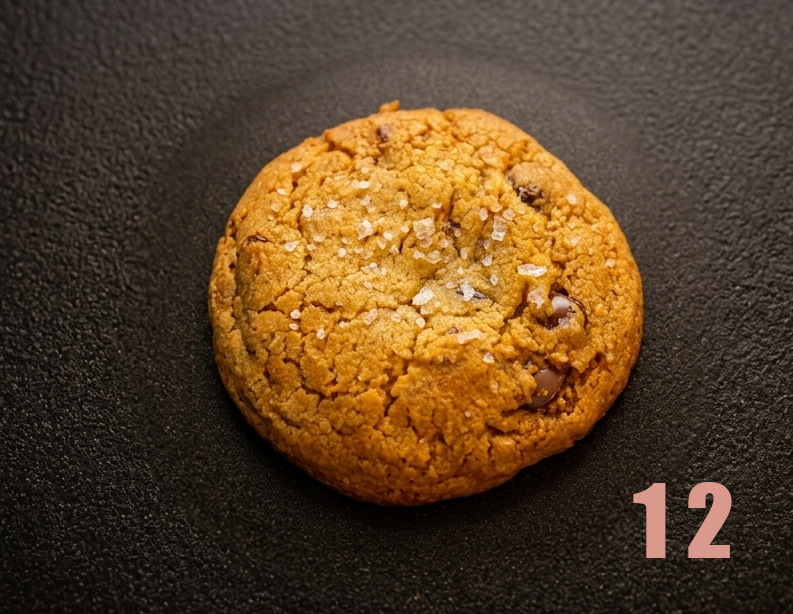
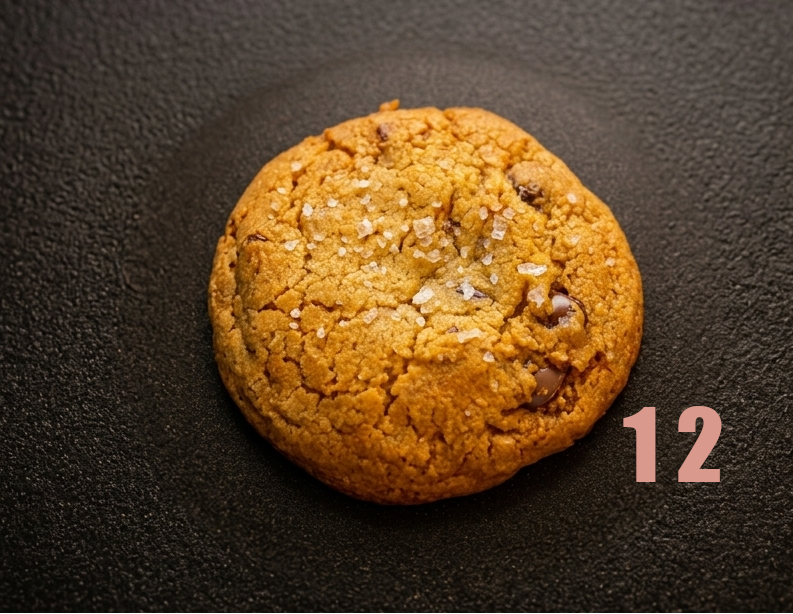
INITIAL Order system implemented. Updated images. Some use placeholder and need replaced when available.

diff --git a/products.js b/products.js
@@ -8,9 +8,9 @@ const STORE = {
     {id:"custom-cakes", name:"Custom Cakes", status:"coming"}
   ],
   products: [
-    {id:"salted-chip-12", category:"cookies", name:"Salted Choc. Chip(12)", price:17.99, image:"assets/cookie_hq12.png",  orderUrl: "https://square.link/u/cjqPTlSd", description:"You're a true cookie connoisseur, and you deserve decadence. Here at last."},
-    {id:"salted-chip-36", category:"cookies", name:"Salted Choc. Chip(36)", price:39.99, image:"assets/cookie_hq36.png", orderUrl: "https://square.link/u/cjqPTlSd",  description:"A salty soft bite with a smooth chocolate finish."},
-    {id:"coconut-cookies-12", category:"cookies", name:" Coconut Cookie(12)", price:14.99, image:"assets/coconut-cookie-stock.png", orderUrl: "https://square.link/u/cjqPTlSd",  description:"Coconut flakes toasted atop a smooth, buttery cookie base."},
-    {id:"coconut-cookies-36", category:"cookies", name:" Coconut Cookie(36)", price:38.99, image:"assets/coconut-cookie-stock.png", orderUrl: "https://square.link/u/cjqPTlSd", description:"Buttery smooth cookies topped with lightly toasted coconut flakes."}
+    {id:"salted-chip-12", category:"cookies", name:"Salted Choc. Chip(12)", price:17.99, image:"assets/cookie_hq12.png",  orderUrl: "https://square.link/u/cjqPTlSd", description:"A smooth bite that delivers a hint of salt and fades into a rich chocolate finish."},
+    {id:"salted-chip-36", category:"cookies", name:"Salted Choc. Chip(36)", price:39.99, image:"assets/cookie_hq36.png", orderUrl: "https://square.link/u/KqNjtcEp",  description:"You're a true cookie connoisseur, and you deserve decadence. Here at last."},
+    {id:"coconut-cookies-12", category:"cookies", name:" Coconut Cookie(12)", price:14.99, image:"assets/cookie-placeholder.png", orderUrl: "https://square.link/u/xULCE9rX",  description:"Coconut flakes toasted atop a smooth, buttery cookie base."},
+    {id:"coconut-cookies-36", category:"cookies", name:" Coconut Cookie(36)", price:39.99, image:"assets/cookie-placeholder.png", orderUrl: "https://square.link/u/I49pFYJW", description:"Buttery smooth cookies topped with lightly toasted coconut flakes."}
   ]
 };

diff --git a/index.html b/index.html
@@ -32,20 +32,20 @@
     <section class="section" id="shop">
       <h2>Shop by category</h2>
       <div id="categories" class="categories"></div>
-      <h2>Products</h2>
+      <h2>Today's Cookies:</h2>
       <div id="products" class="products"></div>
     </section>
 
     <section class="features">
       <div><strong>Fresh ingredients</strong><span>We use only the best.</span></div>
-      <div><strong>Made by hand</strong><span>Confidence, competence, and care.</span></div>
+      <div><strong>Made by hand</strong><span>Confidence, consideration, and care.</span></div>
       <div><strong>Evening delivery</strong><span>Fresh to your door.</span></div>
       <div><strong>Checkout via Square</strong><span>Easy online ordering.</span></div>
     </section>
 
     <section class="section" id="about"><h2>About us</h2><p>We specialize in small-batch baked goods made for sharing, gifting, and enjoying at home. </p></section>
-    <section class="section" id="faq"><h2>FAQ</h2><p><strong>Are you open?</strong><p>Yes!</p></section>
-    <section class="section" id="phone"><h2>Phone</h2><p>(614) 547-2319</p><h2>Email</h2><p>nocrumbydaysohio@gmail.com</p></section>
+    <section class="section" id="faq"><h2>FAQ</h2><p><strong>Are you open?</strong><p>Yes! We'd love to make a batch just for you... to share!</p></section>
+    <section class="section" id="contact"><h2>Phone</h2><p>(614) 547-2319</p><h2>Email</h2><p>nocrumbydaysohio@gmail.com</p></section>
     <!--<section class="section" id="email"><h2>Email</h2><p>nocrumbydaysohio@gmail.com</p></section>-->
   </main>
 <!-- 
